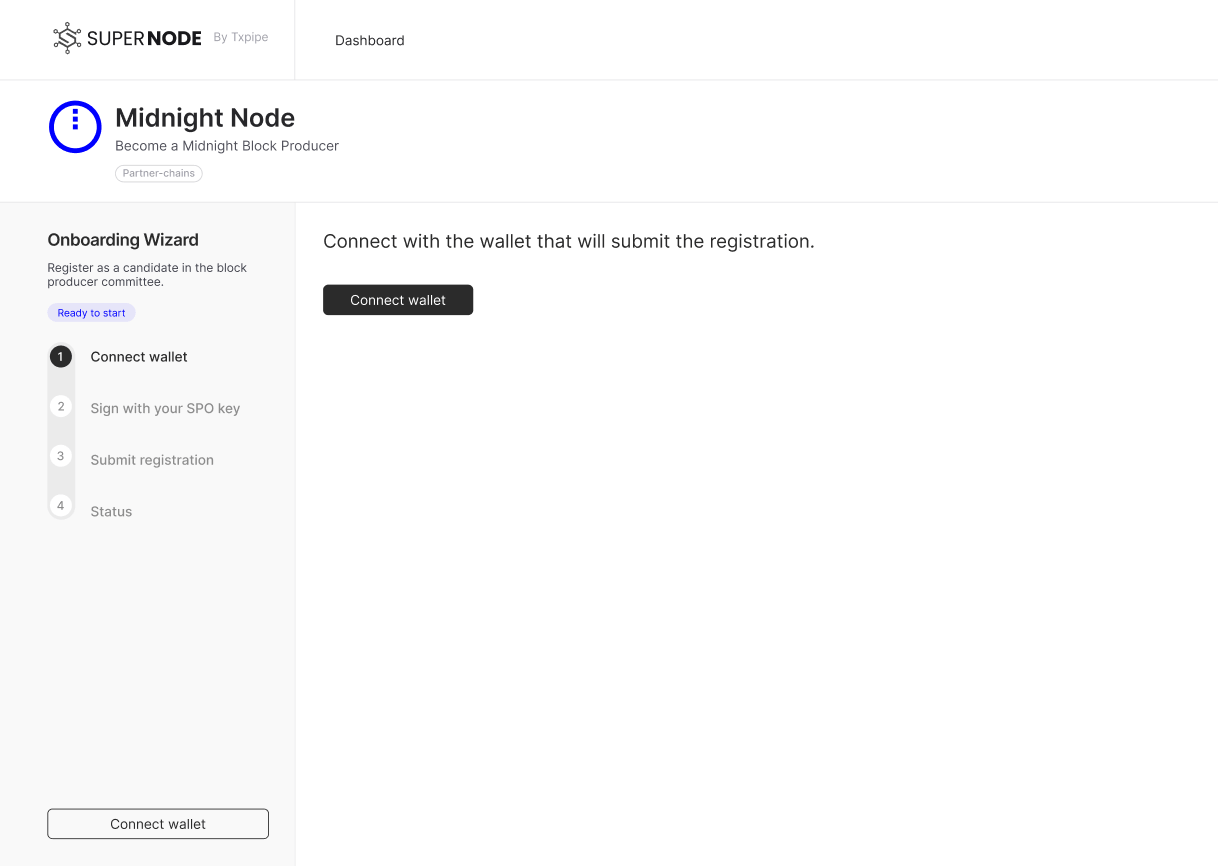
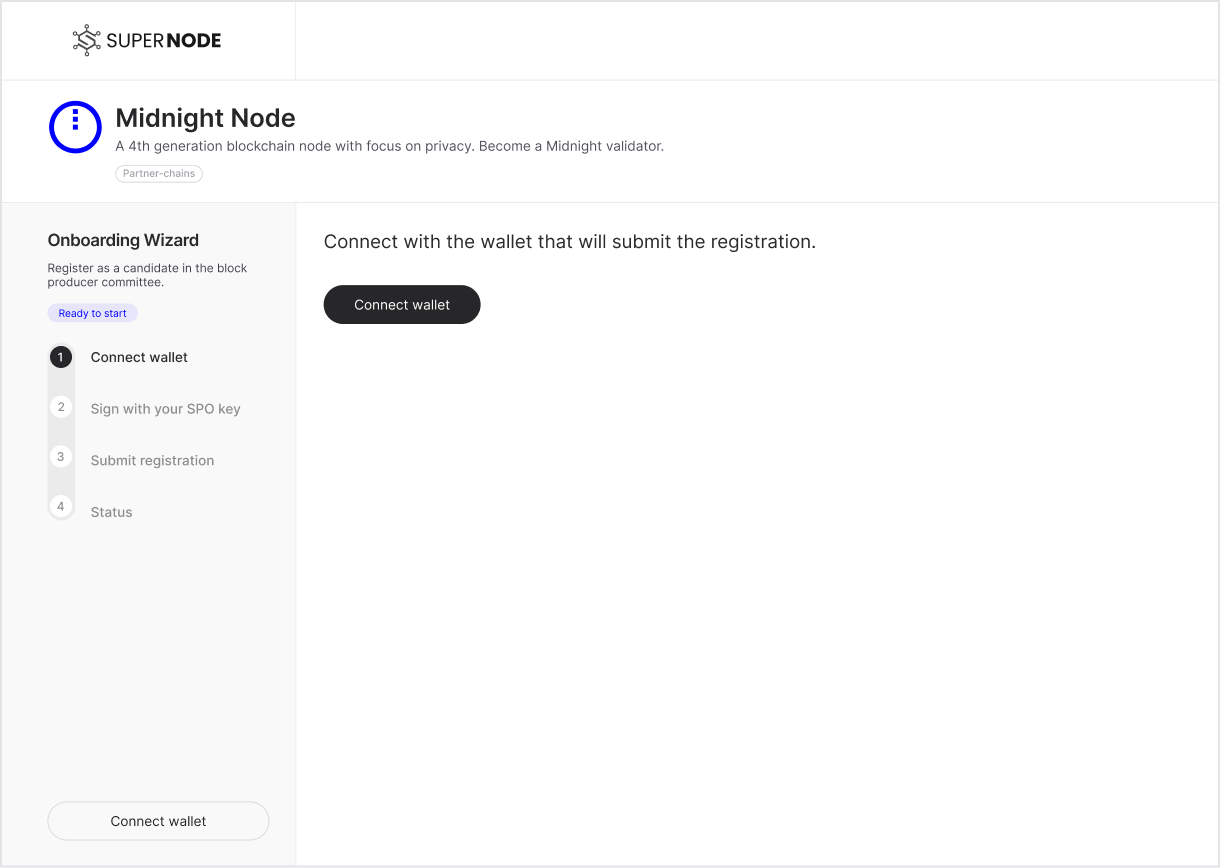
feat: update items details + midnight steps

diff --git a/frontends/catalog/src/data/catalog.ts b/frontends/catalog/src/data/catalog.ts
@@ -1,12 +1,13 @@
 import { createServerFn } from '@tanstack/react-start';
 import slugify from 'slugify';
+import { getRepoInfo } from '~/utils/registry';
 
 const items: CatalogItem[] = [
   {
     icon: '/images/workloads/midnight.svg',
     name: 'Midnight Node',
     slug: slugify('Midnight Node').toLowerCase(),
-    description: 'Become a Midnight Block Producer.',
+    description: 'A 4th generation blockchain node with focus on privacy. Become a Midnight validator.',
     category: 'partner-chain',
     comingSoon: false,
     author: {
@@ -15,38 +16,39 @@ const items: CatalogItem[] = [
     },
     repoUrl: 'https://github.com/midnightntwrk/midnight-node',
     version: '0.12.0',
-    helmResource: `${process.env.OCI_ENDPOINT}/extensions/midnight`,
+    ociName: 'extensions/midnight',
+    ociUrl: `${process.env.OCI_ENDPOINT}/extensions/midnight`,
     repoExtensionUrl: 'https://github.com/txpipe/metis/tree/main/extensions/midnight',
   },
   {
     icon: '/images/workloads/cardano-node.svg',
     name: 'Cardano Node',
     slug: slugify('Cardano Node').toLowerCase(),
-    description: 'Lorem ipsum dolor sit amet consectetur. Condimentum vitae sit fringilla at nisl.',
+    description: 'Run a Cardano layer 1 node to validate blocks and strengthen the network.',
     category: 'layer-1',
-    comingSoon: true,
+    comingSoon: false,
   },
   {
     icon: '/images/workloads/apex-fusion.png',
     name: 'Apex Fusion Prime Node',
     slug: slugify('Apex Fusion Prime Node').toLowerCase(),
-    description: 'Lorem ipsum dolor sit amet consectetur. Condimentum vitae sit fringilla at nisl.',
+    description: 'The foundational UTXO-based layer 1 for the Apex Fusion\'s ecosystem. Run a Prime node.',
     category: 'layer-1',
-    comingSoon: true,
+    comingSoon: false,
   },
   {
     icon: '/images/workloads/hydra.svg',
     name: 'Hydra Node',
     slug: slugify('Hydra Node').toLowerCase(),
-    description: 'Finality without global consensus.',
+    description: 'The layer 2 scalability solution for Cardano. Implements the Hydra Head protocol.',
     category: 'layer-2',
-    comingSoon: true,
+    comingSoon: false,
   },
   {
     icon: '/images/workloads/midgard.png',
     name: 'Midgard Node',
     slug: slugify('Midgard Node').toLowerCase(),
-    description: 'Permissionless Layer 2 for Cardano.',
+    description: 'The first optimistic rollup protocol on Cardano. Become a Midgard operator.',
     category: 'layer-2',
     comingSoon: true,
   },
@@ -54,7 +56,7 @@ const items: CatalogItem[] = [
     icon: '/images/workloads/sundial.svg',
     name: 'Sundial Node',
     slug: slugify('Sundial Node').toLowerCase(),
-    description: 'Institutional-grade Bitcoin infrastructure.',
+    description: 'A layer 2 on Cardano custom built to serve as Bitcoin\'s utility and yield layer.',
     category: 'layer-2',
     comingSoon: true,
   },
@@ -62,7 +64,7 @@ const items: CatalogItem[] = [
     icon: '/images/workloads/charli3.png',
     name: 'Charli3 Oracle',
     slug: slugify('Charli3 Oracle').toLowerCase(),
-    description: 'Lorem ipsum dolor sit amet consectetur. Condimentum vitae sit fringilla at nisl.',
+    description: 'Operate a Charli3 oracle node to deliver reliable on-chain price feeds.',
     category: 'oracle',
     comingSoon: true,
   },
@@ -70,7 +72,7 @@ const items: CatalogItem[] = [
     icon: '/images/workloads/orcfax-oracle.png',
     name: 'Orcfax Oracle',
     slug: slugify('Orcfax Oracle').toLowerCase(),
-    description: 'Lorem ipsum dolor sit amet consectetur. Condimentum vitae sit fringilla at nisl.',
+    description: 'Run an Orcfax node to publish verified, fact-based data on-chain.',
     category: 'oracle',
     comingSoon: true,
   },
@@ -78,7 +80,7 @@ const items: CatalogItem[] = [
     icon: '/images/workloads/butane-oracle.png',
     name: 'Butane Oracle',
     slug: slugify('Butane Oracle').toLowerCase(),
-    description: 'Lorem ipsum dolor sit amet consectetur. Condimentum vitae sit fringilla at nisl.',
+    description: 'Run a Butane oracle node to provide decentralized, signer-based data feeds.',
     category: 'oracle',
     comingSoon: true,
   },
@@ -86,7 +88,7 @@ const items: CatalogItem[] = [
     icon: '/images/workloads/fluidtokens.png',
     name: 'Fluidtokens Aquarium Node',
     slug: slugify('Fluidtokens Aquarium Node').toLowerCase(),
-    description: 'Lorem ipsum dolor sit amet consectetur. Condimentum vitae sit fringilla at nisl.',
+    description: 'Support Babel fees on Cardano by running FluidTokens\' Aquarium Node.',
     category: 'batcher',
     comingSoon: true,
   },
@@ -94,7 +96,7 @@ const items: CatalogItem[] = [
     icon: '/images/workloads/fluidtokens.png',
     name: 'Fluidtokens Bifrost Bridge',
     slug: slugify('Fluidtokens Bifrost Bridge').toLowerCase(),
-    description: 'Lorem ipsum dolor sit amet consectetur. Condimentum vitae sit fringilla at nisl.',
+    description: 'Operate a node to support a Bitcoin to Cardano secured bridge.',
     category: 'bridge',
     comingSoon: true,
   },
@@ -110,7 +112,7 @@ const items: CatalogItem[] = [
     icon: '/images/workloads/minswap.png',
     name: 'Minswap Batcher',
     slug: slugify('Minswap Batcher').toLowerCase(),
-    description: 'Lorem ipsum dolor sit amet consectetur. Condimentum vitae sit fringilla at nisl.',
+    description: 'Run a Minswap batcher to help process and finalize DEX operations.',
     category: 'batcher',
     comingSoon: true,
   },
@@ -118,14 +120,14 @@ const items: CatalogItem[] = [
     icon: '/images/workloads/deltadefi.png',
     name: 'Deltadefi Node',
     slug: slugify('Deltadefi Node').toLowerCase(),
-    description: 'Lorem ipsum dolor sit amet consectetur. Condimentum vitae sit fringilla at nisl.',
+    description: 'Operate a DeltaDeFi\'s Hydra Node to support high-throughput L2 execution.',
     category: 'layer-2',
     comingSoon: true,
   },
   {
     icon: '/images/workloads/demeter.svg',
-    name: 'Demeter',
-    slug: slugify('Demeter').toLowerCase(),
+    name: 'Demeter DePIN Node',
+    slug: slugify('Demeter DePIN Node').toLowerCase(),
     description: 'Lorem ipsum dolor sit amet consectetur. Condimentum vitae sit fringilla at nisl.',
     category: 'partner-chain',
     comingSoon: true,
@@ -134,7 +136,7 @@ const items: CatalogItem[] = [
     icon: '/images/workloads/quantum-hosky.svg',
     name: 'Quantum Hosky Node',
     slug: slugify('Quantum Hosky Node').toLowerCase(),
-    description: 'Lorem ipsum dolor sit amet consectetur. Condimentum vitae sit fringilla at nisl.',
+    description: 'A layered metaverse partner chain. Become a Quantum Hosky block producer.',
     category: 'partner-chain',
     comingSoon: true,
   },
@@ -142,7 +144,7 @@ const items: CatalogItem[] = [
     icon: '/images/workloads/blockfrost-icebreaker.svg',
     name: 'Blockfrost Icebreaker',
     slug: slugify('Blockfrost Icebreaker').toLowerCase(),
-    description: 'Lorem ipsum dolor sit amet consectetur. Condimentum vitae sit fringilla at nisl.',
+    description: 'Help decentralize the Blockfrost API, by running the IceBreaker node.',
     category: 'partner-chain',
     comingSoon: true,
   },
@@ -152,7 +154,7 @@ const items: CatalogItem[] = [
     slug: slugify('Dolos').toLowerCase(),
     description: 'Lorem ipsum dolor sit amet consectetur. Condimentum vitae sit fringilla at nisl.',
     category: 'infrastructure',
-    comingSoon: true,
+    comingSoon: false,
   },
 ];
 
@@ -167,5 +169,13 @@ export const getItemBySlug = createServerFn({
 })
   .inputValidator((data: { slug: string; }) => data)
   .handler(async ({ data }): Promise<CatalogItem | undefined> => {
-    return items.find(item => item.slug === data.slug);
+    const item = items.find(i => i.slug === data.slug);
+
+    if (item?.ociName) {
+      const repoInfo = await getRepoInfo(item.ociName);
+      if (repoInfo.data?.ExpandedRepoInfo) {
+        item.registryInfo = repoInfo.data.ExpandedRepoInfo;
+      }
+    }
+    return item;
   });

diff --git a/frontends/catalog/src/routes/catalog/$category/$node/index.tsx b/frontends/catalog/src/routes/catalog/$category/$node/index.tsx
@@ -7,9 +7,12 @@ import { getCategoryLabel } from '~/data/category';
 // Components
 import { Container } from '~/components/ui/Container';
 import { Breadcrumb } from '~/components/ui/Breadcrumb';
-import { Button } from '~/components/ui/Button';
+import { button } from '~/components/ui/Button';
 import { Card, CardBody, CardHeader } from '~/components/ui/Card';
-import { CopyIcon, GitIcon, StarIcon } from '~/components/icons';
+import { CopyIcon, GitIcon } from '~/components/icons';
+
+// Utils
+import dayjs from '~/utils/dayjs';
 
 export const Route = createFileRoute('/catalog/$category/$node/')({
   loader: async ({ params: { node } }) => {
@@ -45,7 +48,7 @@ function RouteComponent() {
             </div>
           </div>
         </div>
-        <Button type="button" className="gap-1.5 min-w-47.5">Install <StarIcon className="size-4" /></Button>
+        <Link to="/" hash="beta" className={button({ className: 'min-w-47.5' })}>Install </Link>
       </div>
 
       <div className="grid grid-cols-1 md:grid-cols-[1fr_clamp(200px,40%,439px)] gap-12 mt-9">
@@ -59,12 +62,51 @@ function RouteComponent() {
               transaction fees before proceeding.
             </p>
 
-            <img src="/images/wizard/midnight-01.png" alt="Wizard midnight step 01" className="w-full max-w-[610px] shadow-[0px_0px_16px_0px_rgba(0,0,0,0.08)]" />
+            <img src="/images/wizard/midnight-01.png" alt="Wizard midnight step 01" className="w-full max-w-[610px]" />
+          </CardBody>
+
+          <CardHeader>Step 02</CardHeader>
+          <CardBody className="flex flex-col gap-6 text-zinc-800">
+            <p>
+              After selecting a UTXO, you will be prompted to sign a registration message using your SPO
+              (Stake Pool Operator) cold signing key. This cryptographic signature proves ownership of your
+              stake pool. You must provide both the signature generated with your SPO cold key and your SPO
+              public key. This step establishes the link between your Cardano stake pool and your Midnight
+              block producer registration.
+            </p>
+
+            <img src="/images/wizard/midnight-02.png" alt="Wizard midnight step 02" className="w-full max-w-[610px]" />
+          </CardBody>
+
+          <CardHeader>Step 03</CardHeader>
+          <CardBody className="flex flex-col gap-6 text-zinc-800">
+            <p>
+              Once your SPO signature is verified, the registration transaction will be generated and ready
+              to submit on-chain. You will need to sign this transaction using the wallet you connected in
+              Step 01. This transaction registers you as a candidate in the Midnight block producer committee.
+              Please review the transaction details in your wallet before confirming and submitting it to the
+              blockchain.
+            </p>
+
+            <img src="/images/wizard/midnight-03.png" alt="Wizard midnight step 03" className="w-full max-w-[610px]" />
+          </CardBody>
+
+          <CardHeader>Step 04</CardHeader>
+          <CardBody className="flex flex-col gap-6 text-zinc-800">
+            <p>
+              Registration successful! Your transaction has been confirmed on-chain, and you are now registered
+              as a candidate in the validator committee. The transaction hash (Tx Hash) is displayed for your
+              records. You can access the Supernode Health Dashboard to monitor your Midnight block producer
+              node's activity, performance metrics, and validator status. Your node will now be eligible to
+              participate in block production on the Midnight network.
+            </p>
+
+            <img src="/images/wizard/midnight-04.png" alt="Wizard midnight step 04" className="w-full max-w-[610px]" />
           </CardBody>
         </Card>
 
         <Card>
-          <CardHeader>{item.name}</CardHeader>
+          <CardHeader className="font-medium">{item.name}</CardHeader>
           <CardBody className="flex flex-col gap-8 text-zinc-900">
             <div className="flex flex-col gap-3">
               <p className="text-[#18181B]/50 text-lg/[1.2]">Author</p>
@@ -89,22 +131,34 @@ function RouteComponent() {
               </a>
             </div>
             <div className="flex flex-col gap-3">
-              <p className="text-[#18181B]/50 text-lg/[1.2]">Version</p>
-              <p className="">{item.version}</p>
-            </div>
-            <div className="flex flex-col gap-3">
               <p className="text-[#18181B]/50 text-lg/[1.2]">Install</p>
-              <p className="w-fit border border-[#18181B]/30 py-3 px-4.5 rounded-xl flex items-start gap-2">
-                <p className="font-mono wrap-anywhere">helm install [namespace] {item.helmResource}</p>
+              <p className="w-fit border border-[#18181B]/30 py-3 px-4.5 rounded-xl flex items-center gap-3 bg-white">
+                <p className="font-mono wrap-anywhere break-all ">helm install [namespace] {item.ociUrl}</p>
                 <button
                   type="button"
                   className="cursor-pointer"
-                  onClick={() => navigator.clipboard.writeText(`helm install [namespace] ${item.helmResource}`)}
+                  onClick={() => navigator.clipboard.writeText(`helm install [namespace] ${item.ociUrl}`)}
                 >
                   <CopyIcon className="size-5" />
                 </button>
               </p>
             </div>
+            <div className="flex flex-col gap-3">
+              <p className="text-[#18181B]/50 text-lg/[1.2]">Version</p>
+              <p className="">{item.version}</p>
+            </div>
+            {item.registryInfo?.Summary && (
+              <div className="flex flex-col gap-3">
+                <p className="text-[#18181B]/50 text-lg/[1.2]">Times deployed</p>
+                <p className="">{item.registryInfo?.Summary?.DownloadCount}</p>
+              </div>
+            )}
+            {item.registryInfo?.Images?.[0] && (
+              <div className="flex flex-col gap-3">
+                <p className="text-[#18181B]/50 text-lg/[1.2]">Publication date</p>
+                <p className="">{dayjs(item.registryInfo?.Images?.[0].PushTimestamp).fromNow()}</p>
+              </div>
+            )}
           </CardBody>
         </Card>
       </div>

diff --git a/frontends/catalog/src/utils/registry.ts b/frontends/catalog/src/utils/registry.ts
@@ -79,3 +79,28 @@ export async function getManifestFromVersion(repoName: string, version: string):
 
   return response;
 }
+
+export async function getRepoInfo(repo: string) {
+  const query = `
+    query ExpandedRepoInfo($repo: String!) {
+      ExpandedRepoInfo(repo: $repo) {
+          Summary {
+              DownloadCount
+              StarCount
+          }
+          Images {
+              DownloadCount
+              PushTimestamp
+          }
+      }
+    }
+  `;
+  const variables = {
+    repo,
+  };
+
+  const response = await runGraphQLQuery<{ ExpandedRepoInfo: RepoInfo; }>('v2/_zot/ext/search', query, variables)
+    .catch(() => ({ data: null }));
+
+  return response;
+}

diff --git a/frontends/catalog/src/components/ui/Card.tsx b/frontends/catalog/src/components/ui/Card.tsx
@@ -1,4 +1,6 @@
 import { clsx } from 'clsx';
+import { twMerge } from 'tailwind-merge';
+
 interface Props {
   className?: string;
 }
@@ -11,9 +13,9 @@ export function Card({ children, className }: React.PropsWithChildren<Props>) {
   );
 }
 
-export function CardHeader({ children }: React.PropsWithChildren<Props>) {
+export function CardHeader({ children, className }: React.PropsWithChildren<Props>) {
   return (
-    <div className="text-2xl font-semibold">
+    <div className={twMerge('text-2xl font-semibold', className)}>
       {children}
     </div>
   );

diff --git a/frontends/catalog/src/routes/catalog/-catalogItem.tsx b/frontends/catalog/src/routes/catalog/-catalogItem.tsx
@@ -54,8 +54,9 @@ export function CatalogItem({ item }: Props) {
 
   return (
     <Link
-      to="/catalog/$category/$node"
+      to={item.ociUrl ? '/catalog/$category/$node' : '/'}
       params={{ category: item.category, node: item.slug }}
+      hash={item.ociUrl ? undefined : 'beta'}
       className={`${classNames} hover:bg-[#0000FF]/2 hover:border-[#0000FF]/40 transition-colors duration-200 ease-in-out`}
     >
       <ItemInfo item={item} />

diff --git a/frontends/catalog/src/routes/catalog/index.tsx b/frontends/catalog/src/routes/catalog/index.tsx
@@ -46,7 +46,7 @@ function CatalogPage() {
 
   return (
     <Container>
-      <CategoryRow className="gap-6 mt-12" activeCategory={category} />
+      <CategoryRow className="gap-6" activeCategory={category} />
 
       <div className="grid grid-cols-1 sm:grid-cols-2 xl:grid-cols-[repeat(3,minmax(200px,421px))] w-fit gap-8 mx-auto mt-12">
         {filteredItems.map(item => (

diff --git a/frontends/catalog/@types/catalog.d.ts b/frontends/catalog/@types/catalog.d.ts
@@ -12,5 +12,7 @@ declare interface CatalogItem {
   version?: string;
   repoUrl?: string;
   repoExtensionUrl?: string;
-  helmResource?: string;
+  ociName?: string;
+  ociUrl?: string;
+  registryInfo?: RepoInfo;
 }

diff --git a/frontends/catalog/src/utils/dayjs.ts b/frontends/catalog/src/utils/dayjs.ts
@@ -1,0 +1,7 @@
+import dayjs from 'dayjs';
+import relativeTime from 'dayjs/plugin/relativeTime';
+
+// Extender solo una vez
+dayjs.extend(relativeTime);
+
+export default dayjs;
